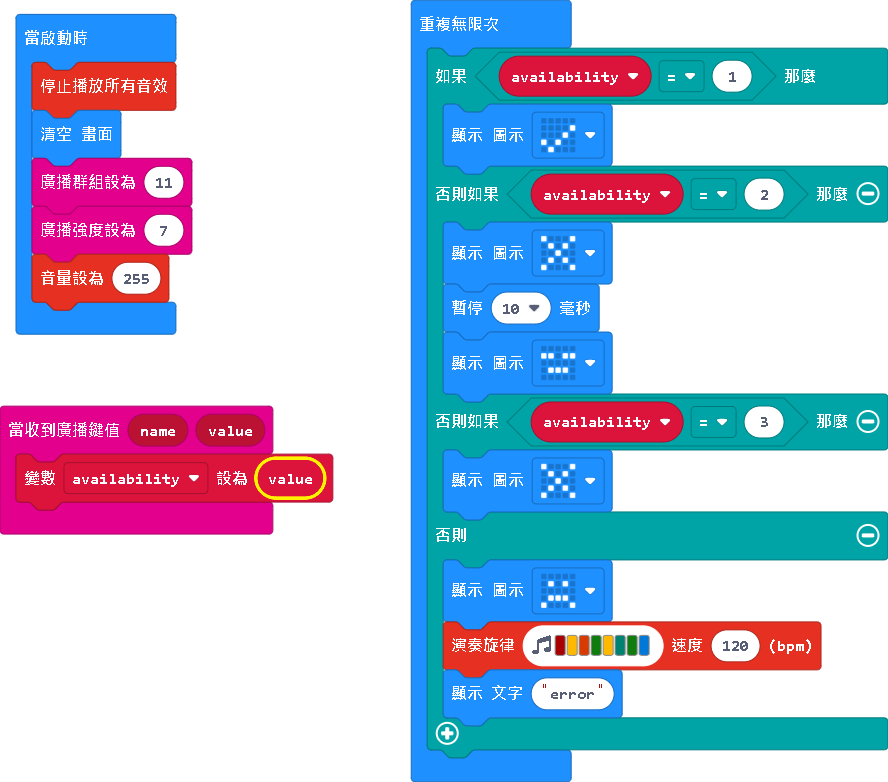
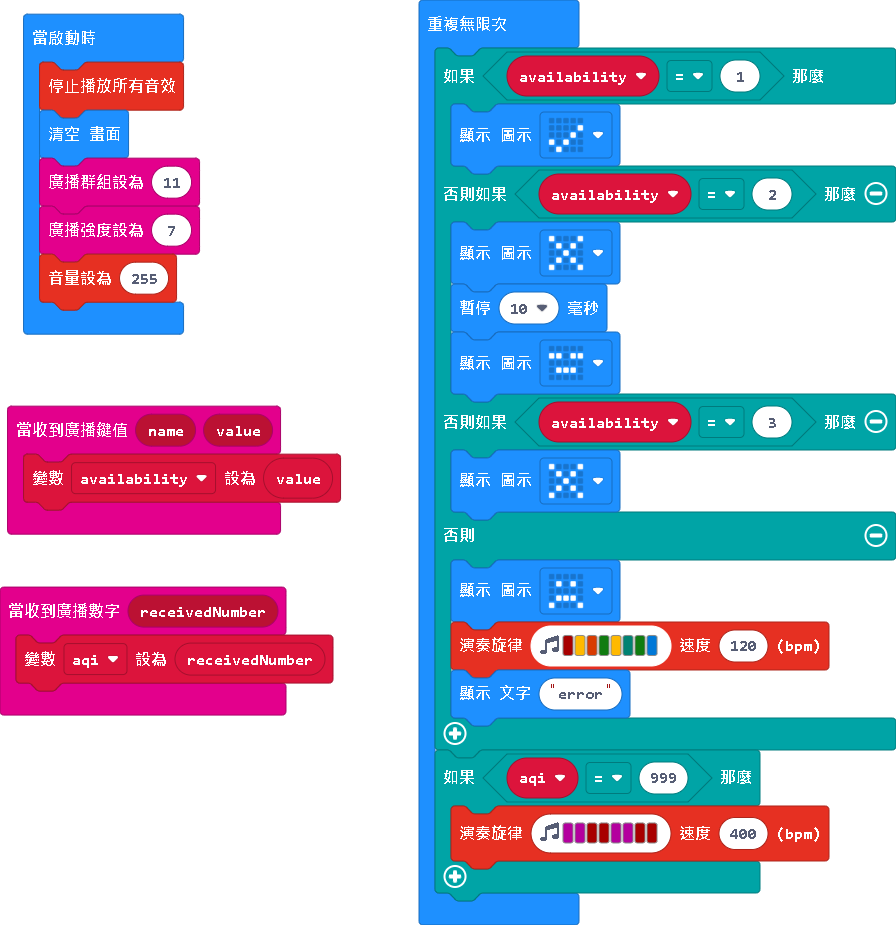
更新 main.blocks, main.ts

diff --git a/main.ts b/main.ts
@@ -1,7 +1,11 @@
+radio.onReceivedNumber(function (receivedNumber) {
+    aqi = receivedNumber
+})
 radio.onReceivedValue(function (name, value) {
     availability = value
 })
 let availability = 0
+let aqi = 0
 music.stopAllSounds()
 basic.clearScreen()
 radio.setGroup(11)
@@ -20,5 +24,8 @@ basic.forever(function () {
         basic.showIcon(IconNames.Sad)
         music.playMelody("C5 A B G A F G E ", 120)
         basic.showString("error")
+    }
+    if (aqi == 999) {
+        music.playMelody("C C C5 C5 C C C5 C5 ", 400)
     }
 })
